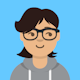
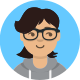
Various tweaks

diff --git a/_includes/head.html b/_includes/head.html
@@ -6,6 +6,7 @@
   <link href="https://fonts.googleapis.com/css2?family=Fira+Code&family=Inter&family=Source+Serif+4:ital,opsz,wght@0,8..60,400;0,8..60,700;1,8..60,400&display=swap" rel="stylesheet">
   <link rel="stylesheet" href="{{ "/css/main.css" | prepend: site.baseurl }}" />
   <link rel="alternate" type="application/rss+xml" title="{{ site.title }}" href="{{ "/feed.xml" | prepend: site.baseurl | prepend: site.url }}" />
+  <link rel="icon" type="image/svg+xml" href="/me.svg">
   <link rel="icon" type="image/png" href="/favicon.png" />
   <meta http-equiv="X-UA-Compatible" content="IE=edge" />
   <meta name="viewport" content="width=device-width, initial-scale=1" />

diff --git a/_sass/_layout.scss b/_sass/_layout.scss
@@ -4,8 +4,8 @@
 }
 
 body {
-  --background-color: antiquewhite;
-  --code-background-color: floralwhite;
+  --background-color: linen;
+  --code-background-color: antiquewhite;
   --text-color: black;
   --faded-text-brightness: 2;
   --layout-spacing: max(8vh, 3rem);

diff --git a/_sass/_header.scss b/_sass/_header.scss
@@ -20,9 +20,6 @@ nav#site-header {
 
 img.header-logo {
   height: 40px;
-  border-radius: 50%;
-  -moz-border-radius: 50%;
-  -webkit-border-radius: 50%;
   margin-right: 0.3em;
   margin-top: -0.3em;
 }

diff --git a/_sass/_homepagelayout.scss b/_sass/_homepagelayout.scss
@@ -5,7 +5,6 @@ header.home {
 		float: left;
 		margin-right: 2em;
 		margin-bottom: 0.5em;
-		border-radius: 50%;
 	}
 	
 	h1, h2 {
